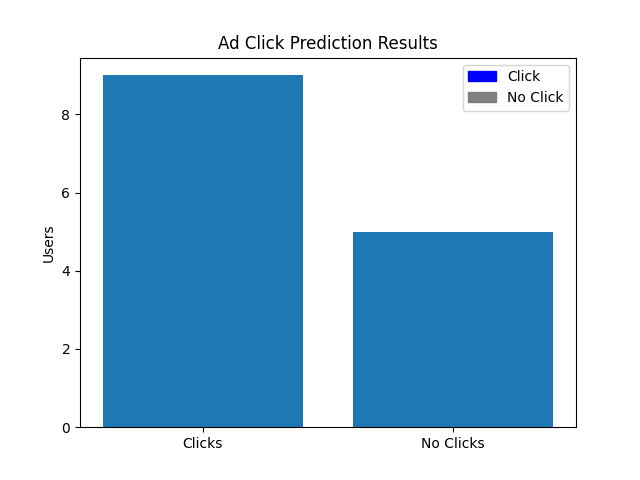
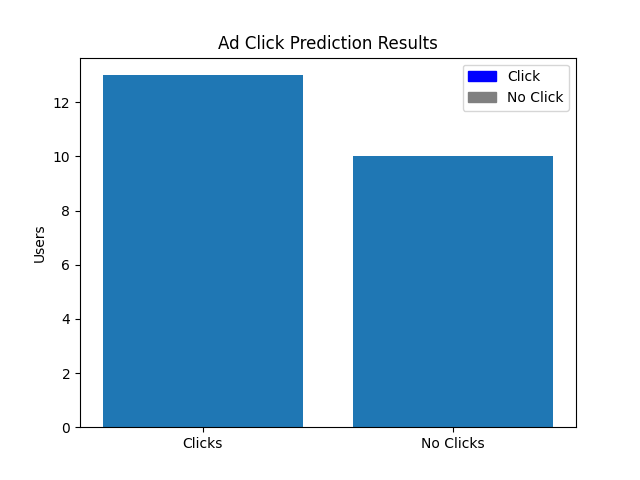
Initial application

diff --git a/templates/dashboard.html b/templates/dashboard.html
@@ -237,7 +237,7 @@ nav{display:flex;align-items:center;justify-content:space-between;padding:16px 3
     <!-- Model info -->
     <div class="card">
       <div class="card-lbl">🤖 Model Insight</div>
-      <div class="detail-row"><span class="dk">Model Type</span><span class="dv">Decision Tree</span></div>
+      <div class="detail-row"><span class="dk">Model Type</span><span class="dv">Random Forest </span></div>
       <div class="detail-row"><span class="dk">Key Feature</span><span class="dv" style="color:var(--accent)">{{ top_feature }}</span></div>
       <div class="detail-row"><span class="dk">Confidence</span>
         <span class="dv" style="color:{{ '#4caf7d' if probability >= 70 else ('#e8a838' if probability >= 40 else '#e05c5c') }}">

diff --git a/train_model.py b/train_model.py
@@ -20,7 +20,7 @@ device_enc   = LabelEncoder(); df['device_enc']   = device_enc.fit_transform(df[
 position_enc = LabelEncoder(); df['position_enc'] = position_enc.fit_transform(df['ad_position'])
 time_enc     = LabelEncoder(); df['time_enc']     = time_enc.fit_transform(df['time_of_day'])
 category_enc = LabelEncoder(); df['category_enc'] = category_enc.fit_transform(df['ad_category'])
-
+# Feature selection 
 X = df[['age','gender_enc','device_enc','position_enc','time_enc','category_enc']]
 y = df['click']
 
